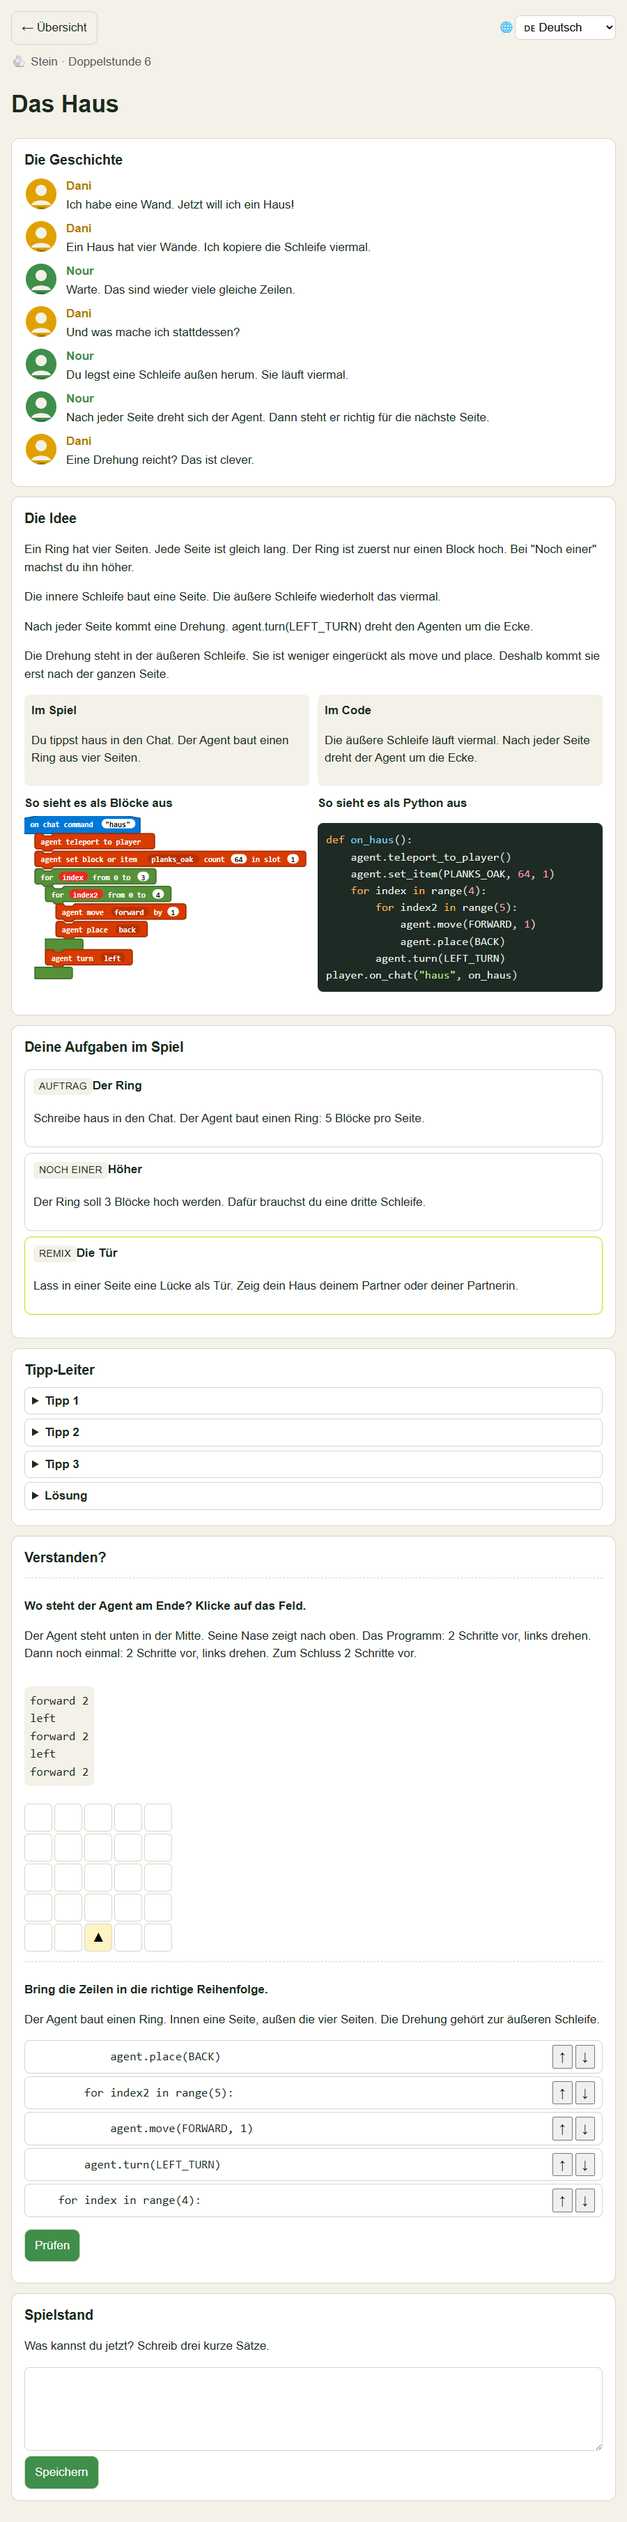
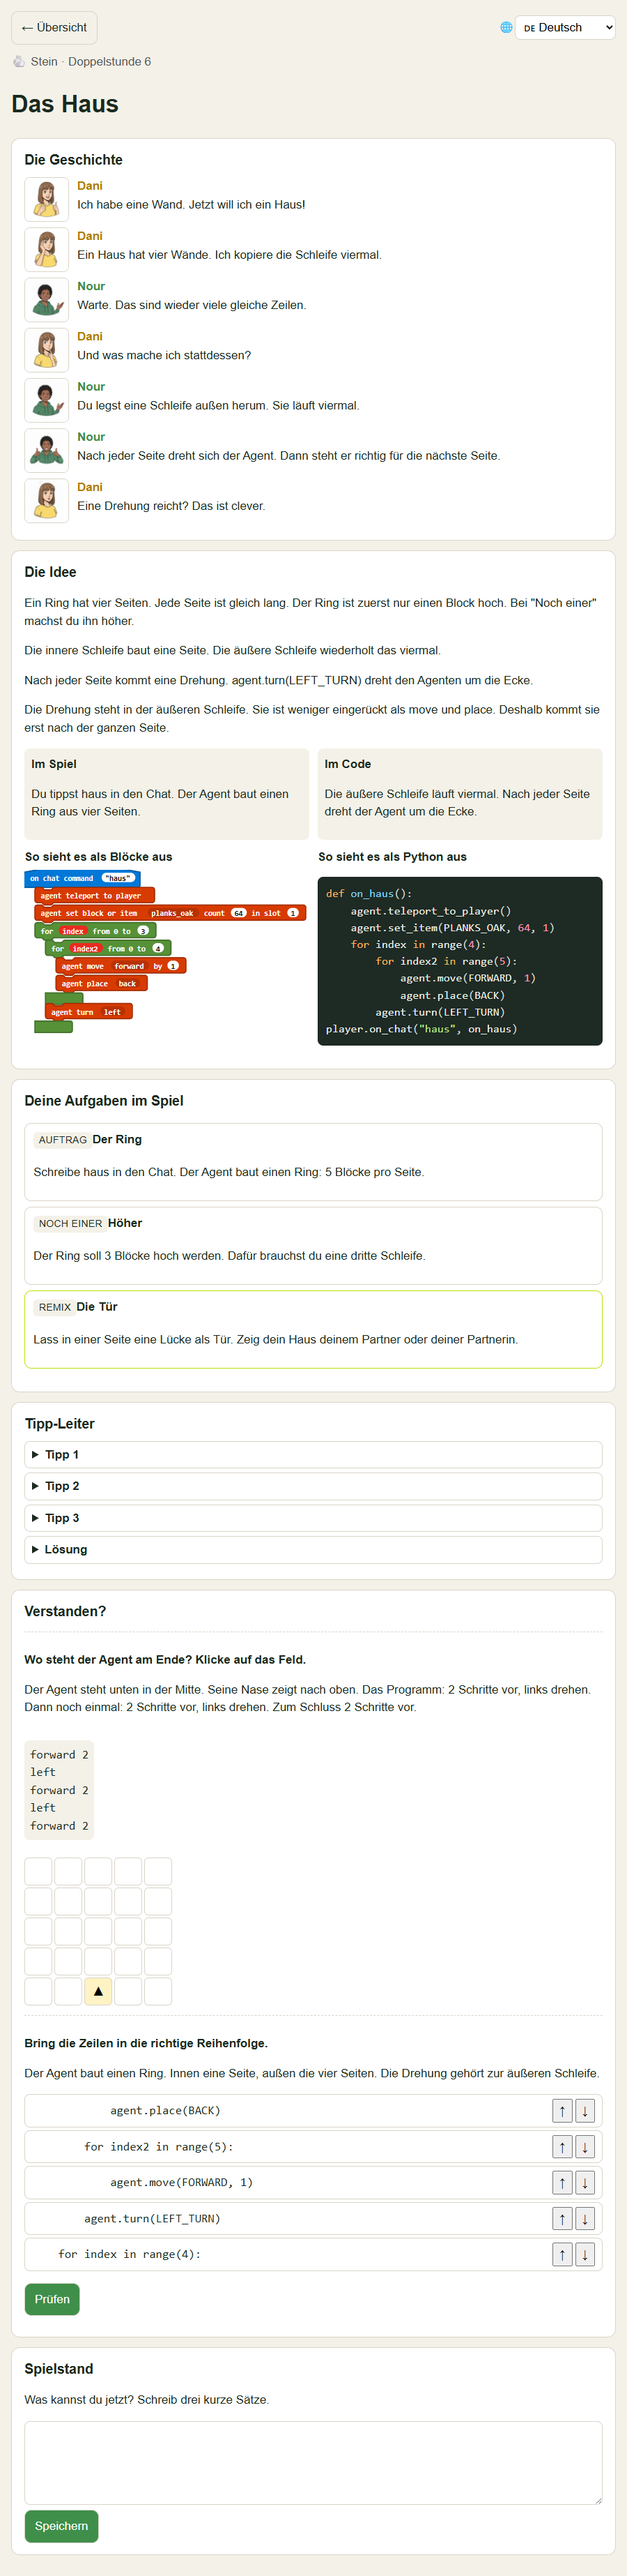
feat(story): comic characters Nour and Dani, five poses each
Ten portraits (erklaerend, fragend, begeistert, nachdenklich, ueberrascht)
generated from the approved reference images with gemini-2.5-flash-image
(0.40 USD, task total 0.48 USD), palette-reduced with sharp (2.24 -> 0.68 MB).

StoryPanel picks the portrait by who and mood via import.meta.glob and falls
back to the SVG silhouette when no file matches; reference images are excluded
from the bundle. Portrait raised to 64px so the expressions are legible.

Heights re-measured with the larger portraits and iframeHeight updated per the
documented rule (max over six languages + 15 %, rounded to 50); box course
rebuilt twice (labels cmid 135-140, second run unchanged), box smoke 13/13,
app smoke 36/36, 161 tests. Station screenshots in docs/ refreshed.

Claude-Session: https://claude.ai/code/session_012kXnMiLuDz6YFsehfiupdK

diff --git a/src/data/stations.js b/src/data/stations.js
@@ -12,12 +12,13 @@ export const ETAPPEN = [
 
 // iframeHeight je Station: gemessen am 04.09.2026 mit scripts/measure-heights.mjs bei 750px
 // Breite (die iframe-Breite in der Box), Maximum ueber alle sechs Sprachen + 15%, auf 50
-// gerundet (Final-Review-Fix A, Punkt 1 — ersetzt die vorher geschaetzten Werte).
+// gerundet (Final-Review-Fix A, Punkt 1 — ersetzt die vorher geschaetzten Werte). Zuletzt
+// nachgemessen nach Task 6 Phase B (Story-Portraits 64px statt 48px: +60 bis +90px je Station).
 export const STATIONS = {
   s01: {
     etappe: 'holz',
     ds: 1,
-    iframeHeight: 4600,
+    iframeHeight: 4700,
     // Entwurf nach der MakeCode-Python-API; Gegenpruefung im Browser-Editor (minecraft.makecode.com, Bloecke -> Python) steht noch aus.
     python: `def on_hi():
     agent.teleport_to_player()
@@ -48,7 +49,7 @@ player.on_chat("hi", on_hi)`,
   s02: {
     etappe: 'holz',
     ds: 2,
-    iframeHeight: 5100,
+    iframeHeight: 5150,
     // Entwurf nach der MakeCode-Python-API; Gegenpruefung im Browser-Editor (minecraft.makecode.com, Bloecke -> Python) steht noch aus.
     python: `def on_weg():
     agent.teleport_to_player()
@@ -98,7 +99,7 @@ player.on_chat("weg", on_weg)`,
   s03: {
     etappe: 'holz',
     ds: 3,
-    iframeHeight: 5100,
+    iframeHeight: 5150,
     bossCheck: { key: 'boss-holz', gradeMax: 100 },
     // Entwurf nach der MakeCode-Python-API; Gegenpruefung im Browser-Editor (minecraft.makecode.com, Bloecke -> Python) steht noch aus.
     python: `def on_weg():
@@ -158,7 +159,7 @@ player.on_chat("turm", on_turm)`,
   s04: {
     etappe: 'stein',
     ds: 4,
-    iframeHeight: 4950,
+    iframeHeight: 5000,
     // Entwurf nach der MakeCode-Python-API; Gegenpruefung im Browser-Editor (minecraft.makecode.com, Bloecke -> Python) steht noch aus.
     python: `def on_mauer():
     agent.teleport_to_player()
@@ -199,7 +200,7 @@ player.on_chat("mauer", on_mauer)`,
   s05: {
     etappe: 'stein',
     ds: 5,
-    iframeHeight: 5150,
+    iframeHeight: 5250,
     // Entwurf nach der MakeCode-Python-API; Gegenpruefung im Browser-Editor (minecraft.makecode.com, Bloecke -> Python) steht noch aus.
     python: `def on_wand():
     agent.teleport_to_player()
@@ -257,7 +258,7 @@ player.on_chat("wand", on_wand)`,
   s06: {
     etappe: 'stein',
     ds: 6,
-    iframeHeight: 5100,
+    iframeHeight: 5200,
     bossCheck: { key: 'boss-stein', gradeMax: 100 },
     // Entwurf nach der MakeCode-Python-API; Gegenpruefung im Browser-Editor (minecraft.makecode.com, Bloecke -> Python) steht noch aus.
     python: `def on_haus():

diff --git a/src/components/StoryPanel.jsx b/src/components/StoryPanel.jsx
@@ -1,10 +1,25 @@
-import nour from '../assets/characters/nour.svg';
-import dani from '../assets/characters/dani.svg';
+import nourSvg from '../assets/characters/nour.svg';
+import daniSvg from '../assets/characters/dani.svg';
 import Support from './Support.jsx';
 import { pair } from '../lib/bilingual.js';
 
-const FACE = { nour, dani };
+// Alle Posen-Portraits auf einmal einsammeln. Vite loest import.meta.glob zur
+// Bauzeit in feste Imports auf; der Schluessel ist der relative Pfad. Die
+// Referenzbilder (*-ref.png) sind nur Vorlage fuer die Generierung und bleiben
+// draussen, damit sie nicht mit ins Bundle wandern.
+const PORTRAITS = import.meta.glob(
+  ['../assets/characters/*-*.png', '!**/*-ref.png'],
+  { eager: true, import: 'default' },
+);
+const SILHOUETTE = { nour: nourSvg, dani: daniSvg };
 const NAME = { nour: 'Nour', dani: 'Dani' };
+
+// Portrait zu Figur und Stimmung. Fehlt die Datei (oder traegt die Zeile keine
+// mood), bleibt die SVG-Silhouette - eine neue Stimmung im Content kann das
+// Panel so nie brechen, sie zeigt nur vorerst kein Gesicht.
+function face(who, mood) {
+  return PORTRAITS[`../assets/characters/${who}-${mood}.png`] ?? SILHOUETTE[who];
+}
 
 export default function StoryPanel({ lines, short, ui, sui, showSupport }) {
   return (
@@ -12,7 +27,7 @@ export default function StoryPanel({ lines, short, ui, sui, showSupport }) {
       <h2 id="story-h">{pair(ui.storyHeading, sui?.storyHeading)}</h2>
       {lines.map((l, i) => (
         <div key={i} className={`bubble bubble-${l.who}`}>
-          <img src={FACE[l.who]} alt="" width="48" height="48" />
+          <img src={face(l.who, l.mood)} alt="" width="64" height="64" />
           <div>
             <strong>{NAME[l.who]}</strong>
             <p>{l.text}</p>

diff --git a/tests/storypanel.test.jsx b/tests/storypanel.test.jsx
@@ -1,0 +1,33 @@
+import fs from 'node:fs';
+import path from 'node:path';
+import { render } from '@testing-library/react';
+import StoryPanel from '../src/components/StoryPanel.jsx';
+import daniSvg from '../src/assets/characters/dani.svg';
+
+const ui = { storyHeading: 'Story' };
+const MOODS = ['erklaerend', 'fragend', 'begeistert', 'nachdenklich', 'ueberrascht'];
+
+function renderLines(lines) {
+  return render(<StoryPanel lines={lines} ui={ui} showSupport={false} />);
+}
+
+test('Panel zeigt das Comic-Portrait passend zu who und mood', () => {
+  const { container } = renderLines([{ who: 'nour', mood: 'erklaerend', text: 'Der Agent versteht nur Code.' }]);
+  expect(container.querySelector('img[src*="nour-erklaerend"]')).not.toBeNull();
+});
+
+test('ohne passendes Portrait faellt das Panel auf die SVG-Silhouette zurueck', () => {
+  // Kleine SVGs liefert Vite als data-URI, deshalb gegen den importierten Wert
+  // pruefen statt gegen den Dateinamen.
+  const { container } = renderLines([{ who: 'dani', mood: 'tanzend', text: 'Was?' }]);
+  expect(container.querySelector('img').getAttribute('src')).toBe(daniSvg);
+});
+
+test('jede Stimmung aus den Inhalten hat fuer beide Figuren ein Portrait', () => {
+  const dir = path.resolve(__dirname, '..', 'src', 'assets', 'characters');
+  for (const who of ['nour', 'dani']) {
+    for (const mood of MOODS) {
+      expect(fs.existsSync(path.join(dir, `${who}-${mood}.png`)), `${who}-${mood}.png fehlt`).toBe(true);
+    }
+  }
+});

diff --git a/tests/course-def.test.js b/tests/course-def.test.js
@@ -63,9 +63,9 @@ test('Willkommen: Sprachwahl-Label ohne mlang, alle Sprachen untereinander', () 
 test('iframe-Hoehe kommt aus iframeHeight der Station, gleiche Hoehe fuer jede Sprache', () => {
   const holz = def.sections[2];
   const label = holz.items.find((i) => i.key === 's02-station');
-  expect(STATIONS.s02.iframeHeight).toBe(5100);
-  expect(label.html).toContain('height="5100"');
-  expect(label.html).not.toContain('height="5610"');
+  expect(STATIONS.s02.iframeHeight).toBe(5150);
+  expect(label.html).toContain('height="5150"');
+  expect(label.html).not.toContain('height="5665"');
   // Final-Review-Fix C, 2026-09-04: "toContain" belegt nur, dass die Hoehe irgendwo auftaucht —
   // nicht, dass sie fuer jede der sechs LANGS-Sprachen gesetzt ist. Zaehlen statt nur enthalten.
   // Ein rohes `height="X"`-Zaehlen laeuft auf 7 hinaus: mlang() haengt hinter den sechs

diff --git a/src/styles.css b/src/styles.css
@@ -47,6 +47,7 @@ p, li, h1, h2, h3, h4, strong {
 .crumb { color: #555; margin: 0; }
 .title-support { font-weight: normal; color: #555; }
 .bubble { display: flex; gap: 12px; align-items: flex-start; margin: 8px 0; }
+.bubble img { flex: none; border-radius: 8px; border: 1px solid var(--line); background: #fff; }
 .bubble p { margin: 2px 0 0; }
 .bubble-nour strong { color: var(--accent); }
 .bubble-dani strong { color: #b07d00; }

diff --git a/docs/plans/2026-09-03-code-welt-02-holz-stein.md b/docs/plans/2026-09-03-code-welt-02-holz-stein.md
@@ -550,11 +550,11 @@ Blocks entsprechend. Aufgaben: Auftrag Ring 5×5; Noch einer: Ring 3 hoch (dritt
 - Verfahren: (1) Skill `media-factory` laden, `generators/ai-image.md` und `cost-tracker.md` folgen; (2) je Figur ein Referenzbild (Nano Banana, ~0,04 USD) mit festem Prompt (Alter 17, Kleidung, Haarfarbe, Comic, klare Konturen, kein Text); Dirk sieht das Referenzbild (Datei) und gibt frei; (3) fünf Posen je Figur mit dem Referenzbild als Bildeingabe und dem Posen-Prompt; (4) Kosten je Aufruf protokollieren; Abbruch bei 5 USD.
 - Prompt-Kern Nour: „17-year-old student, warm confident smile, short dark curly hair, hoodie in forest green, comic illustration, flat colours, clean outlines, white background, bust portrait". Dani: „17-year-old student, curious wide eyes, straight brown hair with a fringe, yellow t-shirt, same style". Posen: erklärend (Hand erhoben), fragend (Kopf schief, Finger am Kinn), begeistert (beide Daumen hoch), nachdenklich (Hand am Kopf), überrascht (offener Mund).
 
-- [ ] **Step 1:** `scripts/characters.mjs` (liest `GOOGLE_API_KEY` aus `../docker/.env`, `--who nour --pose erklaerend --ref path`), Kostenanzeige vor jedem Aufruf, JSONL-Log, Datei schreiben.
-- [ ] **Step 2:** Referenzbilder erzeugen → **Stopp: Dirk-Freigabe** der beiden Referenzen (Dateien zeigen).
-- [ ] **Step 3:** zehn Posen erzeugen; Sichtprüfung auf Konsistenz (Haare, Kleidung); bei Ausreißern einmal neu (Budget prüfen).
-- [ ] **Step 4:** `StoryPanel` mit `mood`; `content/de.js` Dialoge bekommen `mood`; Test: Panel rendert `img[src*="nour-erklaerend"]`.
-- [ ] **Step 5:** Commit `feat(story): comic characters Nour and Dani, five poses each` + Kostenzeile im Report.
+- [x] **Step 1:** `scripts/characters.mjs` (liest `GOOGLE_API_KEY` aus `../docker/.env`, `--who nour --pose erklaerend --ref path`), Kostenanzeige vor jedem Aufruf, JSONL-Log, Datei schreiben.
+- [x] **Step 2:** Referenzbilder erzeugen → **Stopp: Dirk-Freigabe** der beiden Referenzen (Dateien zeigen).
+- [x] **Step 3:** zehn Posen erzeugen; Sichtprüfung auf Konsistenz (Haare, Kleidung); bei Ausreißern einmal neu (Budget prüfen).
+- [x] **Step 4:** `StoryPanel` mit `mood`; `content/de.js` Dialoge bekommen `mood`; Test: Panel rendert `img[src*="nour-erklaerend"]`.
+- [x] **Step 5:** Commit `feat(story): comic characters Nour and Dani, five poses each` + Kostenzeile im Report.
 
 ---
 

diff --git a/README.md b/README.md
@@ -82,7 +82,7 @@ Final-Review-Fix A):
 **Plan 2 (Holz und Stein) fertig:** sechs Stationen (DS 1–6) in sechs Sprachen, Block-Ansicht
 (SVG, live aus den Stationsdaten gezeichnet — kein manueller Screenshot mehr), zwei Boss-Checks
 (Aufgaben mit Online-Text), zwei Badges (Holz, Stein), Forum „Fragen an Nour", Lehrkraft-Abschnitt
-(Setup, Weltbauplan, Stundenverläufe DS 1–6), Referenzbilder für Nour und Dani. Box-Kurs 10 gebaut, Gesamtlauf
+(Setup, Weltbauplan, Stundenverläufe DS 1–6), Comic-Portraits für Nour und Dani in fünf Stimmungen. Box-Kurs 10 gebaut, Gesamtlauf
 (`moodle:build` ×2, `apply-completion.sh`, `reset-badges.php`, `moodle:postbuild` ×2) durch, Badges
 Holz und Stein je über den echten Lernpfad nachgewiesen (`npm run moodle:smoke:learner`, als
 `schueler1`: drei Quizze mit 100 %, echte Boss-Check-Abgabe, Badge sofort verliehen — ohne
@@ -91,8 +91,11 @@ als Prozentzahl (100/0) statt als Anteil (1.0/0.0) durch, Moodle wertete dadurch
 statt 100 % — behoben (Final-Review-Fix B), alle sechs Quizze mit korrigierten Fraktionen neu
 angelegt. App-Smoke (36 Checks) und Box-Smoke (13 Checks) je dreimal hintereinander grün.
 
-Charaktere: Referenzbilder für Nour und Dani liegen vor (0,08 USD), die zehn Posen (fünf je
-Figur) folgen nach Dirks Freigabe. Übersetzung der sechs Stationen in fünf Sprachen: 2,81 USD.
+Charaktere: je Figur ein Referenzbild und fünf Posen (erklärend, fragend, begeistert,
+nachdenklich, überrascht) per `scripts/characters.mjs` (Nano Banana, 0,48 USD gesamt); das
+Story-Panel wählt das Portrait nach `mood` und fällt auf die SVG-Silhouette zurück, wenn eine Datei
+fehlt. Die PNGs sind palettenreduziert (512×512, ~50–80 KB statt ~220 KB). Übersetzung der sechs
+Stationen in fünf Sprachen: 2,81 USD.
 
 Nicht in Plan 2: Audio, Cheat-Sheets, Glossar-Vollausbau (Phase 5), Deploy (Phase 6), Etappen ab
 Eisen.
@@ -104,6 +107,5 @@ Eisen.
 - Weltdatei „ankunft" im Editor bauen (Bauplan + Bauskript liegen bereit), als `.mcworld`
   exportieren, in den Lehrkraft-Ordner „Weltdateien" hochladen.
 - uk- und ar-Übersetzung von Muttersprachler:in gegenlesen lassen.
-- Referenzbilder Nour/Dani freigeben, damit Phase B (Posen) starten kann.
 
-Nächster Schritt: Charaktere Phase B nach Freigabe, danach Plan 3 (Eisen) oder Phase 5/6.
+Nächster Schritt: Plan 3 (Eisen), danach Phase 5/6.

diff --git a/docs/lehrkraft-probelauf.md b/docs/lehrkraft-probelauf.md
@@ -121,7 +121,7 @@ Bitte beim Durchlauf auf diese Punkte achten und zurückmelden:
 - [ ] **Reihenfolge:** Ergibt der Aufbau innerhalb einer Station Sinn (Dialog → Konzept →
       Aufgabe → Tipp-Leiter → Übungen → Quiz)? Wirkt eine Station zu lang oder zu kurz?
 - [ ] **Bilder:** Sehen die Block-Ansichten so aus, wie du sie in MakeCode erwarten würdest?
-      Sind Nour/Dani (Referenzbilder) stimmig?
+      Passen die Gesichter von Nour und Dani zur jeweiligen Dialogzeile (Stimmung)?
 - [ ] **Höhe des iframes je Station:** Muss irgendwo gescrollt werden, obwohl der Inhalt
       eigentlich hineinpassen sollte, oder bleibt unten unnötig viel Leerraum?
 
@@ -154,9 +154,15 @@ bewusste, aber ungeklärte Entscheidung: alle Imperative im Kurs sind maskulin, 
 Form gäbe es nur über einen kompletten Registerwechsel (Verbalnomen statt Imperativ). Wenn das
 störend wirkt, ist das ein eigener kleiner Task.
 
-## Charaktere: Referenzbilder freigeben
+## Charaktere: Posen nachbessern
 
-Nour und Dani stehen als Referenzbilder in `src/assets/characters/` (`nour-ref.png`,
-`dani-ref.png`, je 0,08 USD). Die zehn Posen (fünf je Figur, für Stimmungen wie „erklärt",
-„freut sich" etc.) werden erst erzeugt, wenn du diese beiden Referenzbilder angesehen und
-freigegeben hast — bitte kurz Rückmeldung, dann läuft Phase B.
+Nour und Dani liegen als Referenzbild plus fünf Posen in `src/assets/characters/` (freigegeben
+04.09.2026, 0,48 USD gesamt). Wirkt eine Pose im Panel unpassend, lässt sie sich einzeln neu
+ziehen (~0,04 USD), zum Beispiel:
+
+```
+node scripts/characters.mjs --who dani --pose ueberrascht --ref src/assets/characters/dani-ref.png
+```
+
+Danach die Datei mit `sharp` palettenreduzieren (siehe Ledger, Task 6 Phase B) und den
+App-Smoke laufen lassen.
